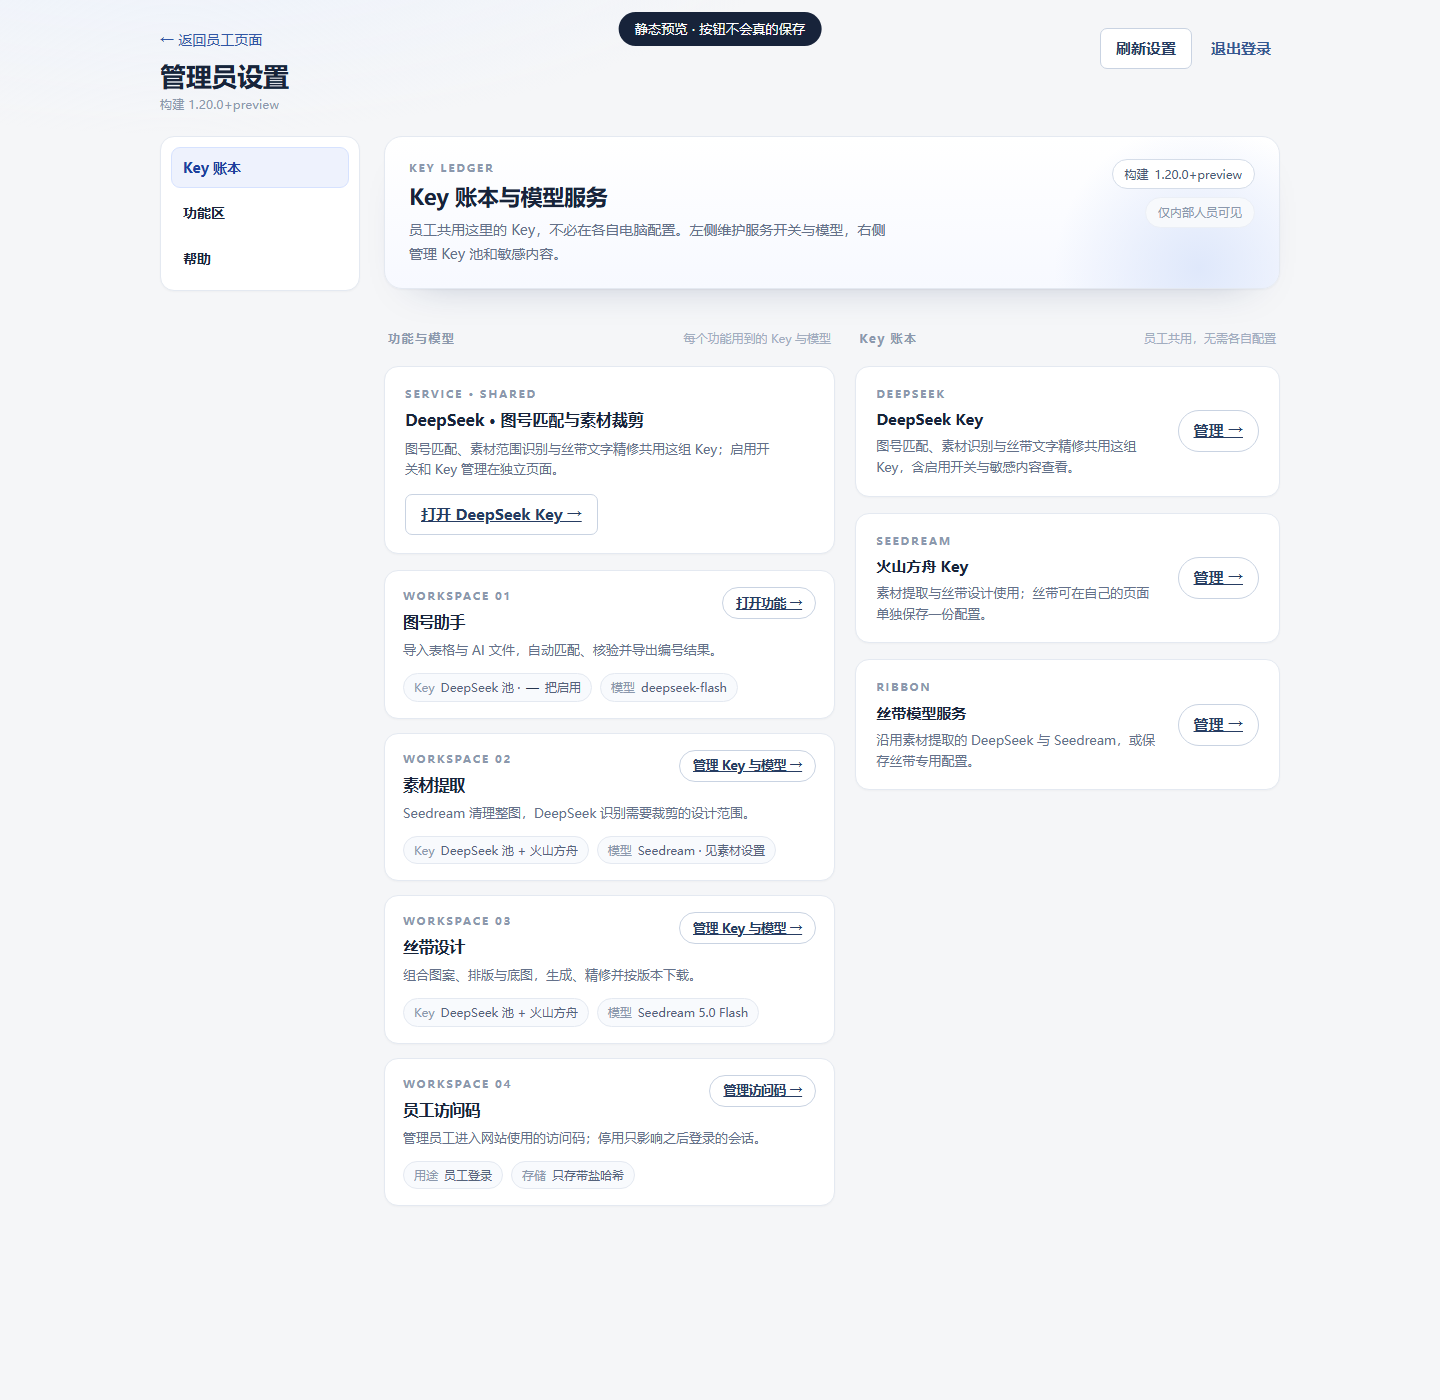
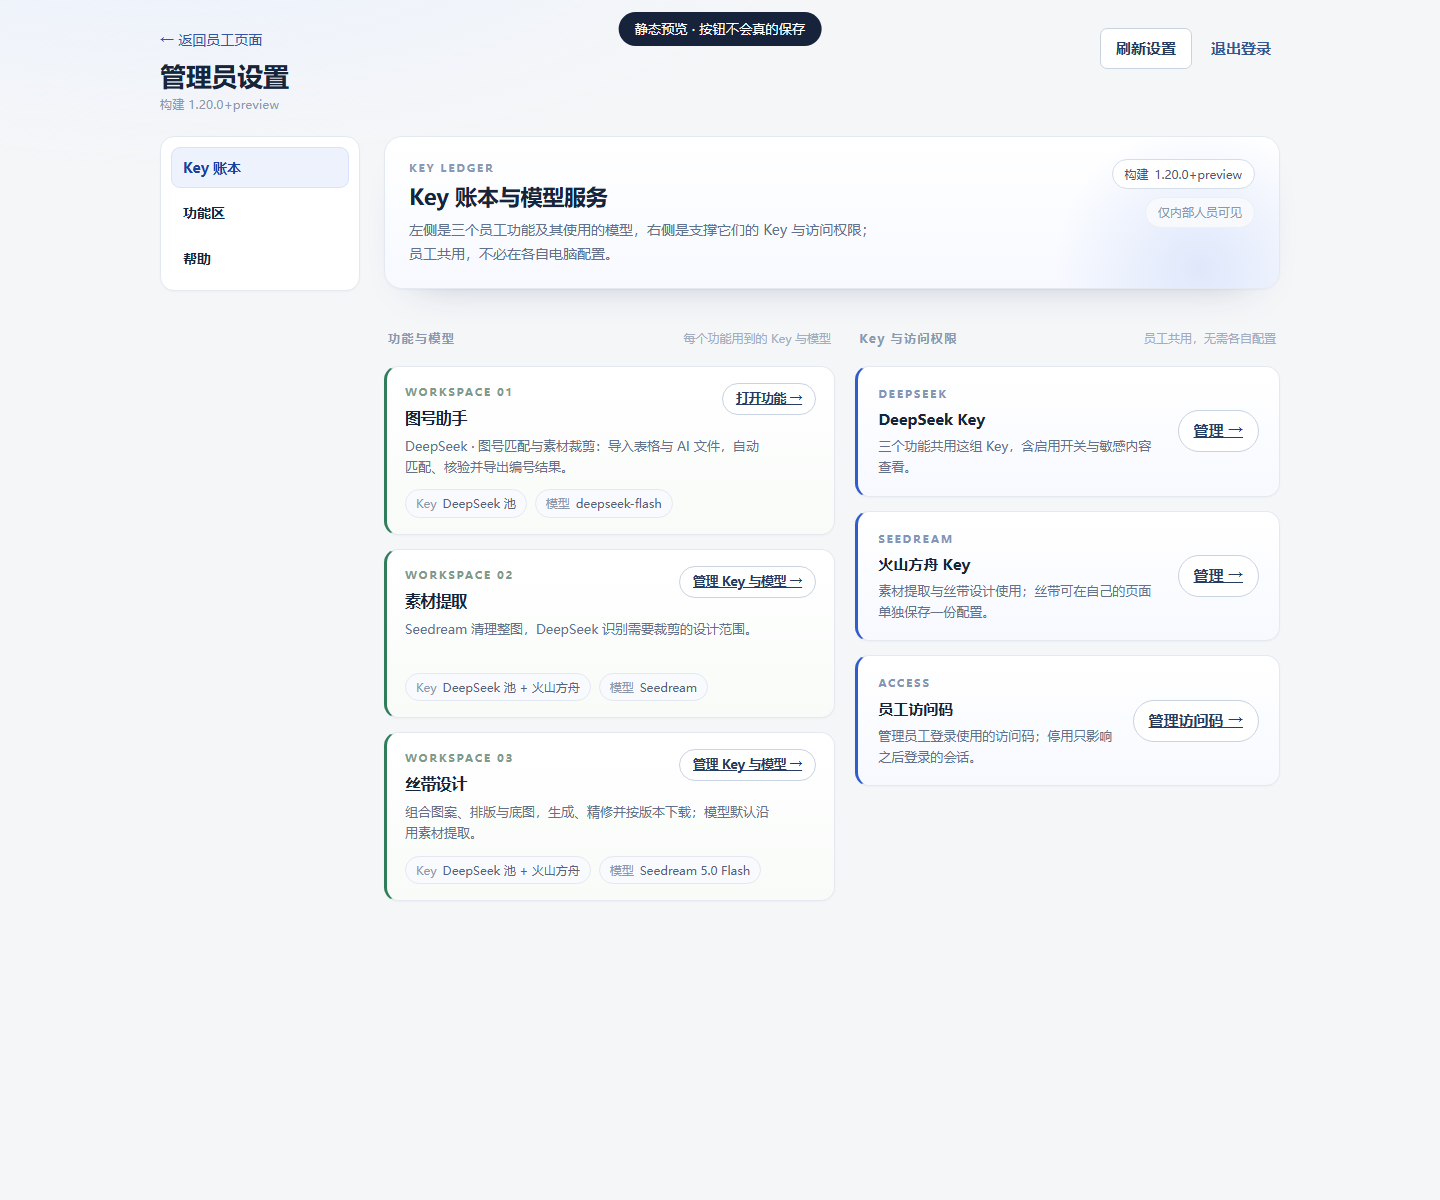
ui(admin): three features on the left, three access cards on the right
Removes the duplicated DeepSeek strip and the duplicate ribbon entry so the page is exactly six cards: 图号助手 / 素材提取 / 丝带设计 on the left and DeepSeek Key / 火山方舟 Key / 员工访问码 on the right. The columns now differ visually (green left border and tint for features, blue for keys and access) and the section labels follow: 功能与模型 / Key 与访问权限.

Feature cards all use the same layout (title, action, description, key/model chips). Tests updated for three feature cards and three entry cards; 92 admin/server tests and the admin UI suite pass; gate ok.

diff --git a/docs/preview/admin-key-ledger.html b/docs/preview/admin-key-ledger.html
@@ -37,7 +37,7 @@
             <div class="hero-copy">
               <p class="eyebrow">KEY LEDGER</p>
               <h2 class="hero-title">Key 账本与模型服务</h2>
-              <p class="hero-desc">员工共用这里的 Key，不必在各自电脑配置。左侧维护服务开关与模型，右侧管理 Key 池和敏感内容。</p>
+              <p class="hero-desc">左侧是三个员工功能及其使用的模型，右侧是支撑它们的 Key 与访问权限；员工共用，不必在各自电脑配置。</p>
             </div>
             <div class="hero-meta">
               <span class="pill">构建 <span id="hero-build">1.20.0+preview</span></span>
@@ -46,104 +46,85 @@
           </section>
 
           <div class="console-grid">
-            <div class="console-col">
+            <div class="console-col console-features">
               <div class="section-label">
                 <h2>功能与模型</h2>
                 <span>每个功能用到的 Key 与模型</span>
               </div>
 
-              <section class="panel service-strip" id="keys" data-service="deepseek">
-                <div class="strip-main">
-                  <p class="eyebrow">SERVICE · SHARED</p>
-                  <h3 id="settings-heading">DeepSeek · 图号匹配与素材裁剪</h3>
-                  <p class="card-desc">图号匹配、素材范围识别与丝带文字精修共用这组 Key；启用开关和 Key 管理在独立页面。</p>
-                </div>
-                <a class="button secondary" href="/admin/deepseek">打开 DeepSeek Key →</a>
-              </section>
-
               <div class="feature-list">
-              <section class="panel feature-card">
-                <div class="feature-top">
-                  <div class="feature-title"><p class="eyebrow">WORKSPACE 01</p><h3>图号助手</h3></div>
-                  <a class="button secondary" href="/">打开功能 →</a>
-                </div>
-                <p class="card-desc">导入表格与 AI 文件，自动匹配、核验并导出编号结果。</p>
-                <ul class="chips">
-                  <li><span>Key</span>DeepSeek 池 · <b data-key-enabled>—</b> 把启用</li>
-                  <li><span>模型</span>deepseek-flash</li>
-                </ul>
-              </section>
+                <section class="panel feature-card">
+                  <div class="feature-top">
+                    <div class="feature-title"><p class="eyebrow">WORKSPACE 01</p><h3>图号助手</h3></div>
+                    <a class="button secondary" href="/">打开功能 →</a>
+                  </div>
+                  <p class="card-desc">DeepSeek · 图号匹配与素材裁剪：导入表格与 AI 文件，自动匹配、核验并导出编号结果。</p>
+                  <ul class="chips">
+                    <li><span>Key</span>DeepSeek 池</li>
+                    <li><span>模型</span>deepseek-flash</li>
+                  </ul>
+                </section>
 
-              <section class="panel feature-card">
-                <div class="feature-top">
-                  <div class="feature-title"><p class="eyebrow">WORKSPACE 02</p><h3 id="material-config-heading">素材提取</h3></div>
-                  <a class="button secondary" href="/admin/material">管理 Key 与模型 →</a>
-                </div>
-                <p class="card-desc">Seedream 清理整图，DeepSeek 识别需要裁剪的设计范围。</p>
-                <ul class="chips">
-                  <li><span>Key</span>DeepSeek 池 + 火山方舟</li>
-                  <li><span>模型</span>Seedream · 见素材设置</li>
-                </ul>
-              </section>
+                <section class="panel feature-card">
+                  <div class="feature-top">
+                    <div class="feature-title"><p class="eyebrow">WORKSPACE 02</p><h3>素材提取</h3></div>
+                    <a class="button secondary" href="/admin/material">管理 Key 与模型 →</a>
+                  </div>
+                  <p class="card-desc">Seedream 清理整图，DeepSeek 识别需要裁剪的设计范围。</p>
+                  <ul class="chips">
+                    <li><span>Key</span>DeepSeek 池 + 火山方舟</li>
+                    <li><span>模型</span>Seedream</li>
+                  </ul>
+                </section>
 
-              <section class="panel feature-card" id="ribbon-card">
-                <div class="feature-top">
-                  <div class="feature-title"><p class="eyebrow">WORKSPACE 03</p><h3>丝带设计</h3></div>
-                  <a class="button secondary" href="/admin/ribbon">管理 Key 与模型 →</a>
-                </div>
-                <p class="card-desc">组合图案、排版与底图，生成、精修并按版本下载。</p>
-                <ul class="chips">
-                  <li><span>Key</span>DeepSeek 池 + 火山方舟</li>
-                  <li><span>模型</span>Seedream 5.0 Flash</li>
-                </ul>
-              </section>
-
-              <section class="panel feature-card">
-                <div class="feature-top">
-                  <div class="feature-title"><p class="eyebrow">WORKSPACE 04</p><h3 id="access-config-heading">员工访问码</h3></div>
-                  <a class="button secondary" href="/admin/access-codes">管理访问码 →</a>
-                </div>
-                <p class="card-desc">管理员工进入网站使用的访问码；停用只影响之后登录的会话。</p>
-                <ul class="chips">
-                  <li><span>用途</span>员工登录</li>
-                  <li><span>存储</span>只存带盐哈希</li>
-                </ul>
-              </section>
+                <section class="panel feature-card">
+                  <div class="feature-top">
+                    <div class="feature-title"><p class="eyebrow">WORKSPACE 03</p><h3>丝带设计</h3></div>
+                    <a class="button secondary" href="/admin/ribbon">管理 Key 与模型 →</a>
+                  </div>
+                  <p class="card-desc">组合图案、排版与底图，生成、精修并按版本下载；模型默认沿用素材提取。</p>
+                  <ul class="chips">
+                    <li><span>Key</span>DeepSeek 池 + 火山方舟</li>
+                    <li><span>模型</span>Seedream 5.0 Flash</li>
+                  </ul>
+                </section>
               </div>
             </div>
 
-            <div class="console-col">
+            <div class="console-col console-keys">
               <div class="section-label">
-                <h2>Key 账本</h2>
+                <h2>Key 与访问权限</h2>
                 <span>员工共用，无需各自配置</span>
               </div>
 
-              <section class="panel entry-card">
-                <div class="entry-main">
-                  <p class="eyebrow">DEEPSEEK</p>
-                  <h3>DeepSeek Key</h3>
-                  <p class="card-desc">图号匹配、素材识别与丝带文字精修共用这组 Key，含启用开关与敏感内容查看。</p>
-                </div>
-                <a class="button secondary" href="/admin/deepseek">管理 →</a>
-              </section>
+              <div class="entry-list">
+                <section class="panel entry-card">
+                  <div class="entry-main">
+                    <p class="eyebrow">DEEPSEEK</p>
+                    <h3>DeepSeek Key</h3>
+                    <p class="card-desc">三个功能共用这组 Key，含启用开关与敏感内容查看。</p>
+                  </div>
+                  <a class="button secondary" href="/admin/deepseek">管理 →</a>
+                </section>
 
-              <section class="panel entry-card">
-                <div class="entry-main">
-                  <p class="eyebrow">SEEDREAM</p>
-                  <h3>火山方舟 Key</h3>
-                  <p class="card-desc">素材提取与丝带设计使用；丝带可在自己的页面单独保存一份配置。</p>
-                </div>
-                <a class="button secondary" href="/admin/material">管理 →</a>
-              </section>
+                <section class="panel entry-card">
+                  <div class="entry-main">
+                    <p class="eyebrow">SEEDREAM</p>
+                    <h3>火山方舟 Key</h3>
+                    <p class="card-desc">素材提取与丝带设计使用；丝带可在自己的页面单独保存一份配置。</p>
+                  </div>
+                  <a class="button secondary" href="/admin/material">管理 →</a>
+                </section>
 
-              <section class="panel entry-card">
-                <div class="entry-main">
-                  <p class="eyebrow">RIBBON</p>
-                  <h3>丝带模型服务</h3>
-                  <p class="card-desc">沿用素材提取的 DeepSeek 与 Seedream，或保存丝带专用配置。</p>
-                </div>
-                <a class="button secondary" href="/admin/ribbon">管理 →</a>
-              </section>
+                <section class="panel entry-card">
+                  <div class="entry-main">
+                    <p class="eyebrow">ACCESS</p>
+                    <h3 id="access-config-heading">员工访问码</h3>
+                    <p class="card-desc">管理员工登录使用的访问码；停用只影响之后登录的会话。</p>
+                  </div>
+                  <a class="button secondary" href="/admin/access-codes">管理访问码 →</a>
+                </section>
+              </div>
             </div>
           </div>
         </div>

diff --git a/hsd_tool/static/admin.html b/hsd_tool/static/admin.html
@@ -40,7 +40,7 @@
             <div class="hero-copy">
               <p class="eyebrow">KEY LEDGER</p>
               <h2 class="hero-title">Key 账本与模型服务</h2>
-              <p class="hero-desc">员工共用这里的 Key，不必在各自电脑配置。左侧维护服务开关与模型，右侧管理 Key 池和敏感内容。</p>
+              <p class="hero-desc">左侧是三个员工功能及其使用的模型，右侧是支撑它们的 Key 与访问权限；员工共用，不必在各自电脑配置。</p>
             </div>
             <div class="hero-meta">
               <span class="pill">构建 <span id="hero-build">__HSD_BUILD__</span></span>
@@ -49,104 +49,85 @@
           </section>
 
           <div class="console-grid">
-            <div class="console-col">
+            <div class="console-col console-features">
               <div class="section-label">
                 <h2>功能与模型</h2>
                 <span>每个功能用到的 Key 与模型</span>
               </div>
 
-              <section class="panel service-strip" id="keys" data-service="deepseek">
-                <div class="strip-main">
-                  <p class="eyebrow">SERVICE · SHARED</p>
-                  <h3 id="settings-heading">DeepSeek · 图号匹配与素材裁剪</h3>
-                  <p class="card-desc">图号匹配、素材范围识别与丝带文字精修共用这组 Key；启用开关和 Key 管理在独立页面。</p>
-                </div>
-                <a class="button secondary" href="/admin/deepseek">打开 DeepSeek Key →</a>
-              </section>
-
               <div class="feature-list">
-              <section class="panel feature-card">
-                <div class="feature-top">
-                  <div class="feature-title"><p class="eyebrow">WORKSPACE 01</p><h3>图号助手</h3></div>
-                  <a class="button secondary" href="/">打开功能 →</a>
-                </div>
-                <p class="card-desc">导入表格与 AI 文件，自动匹配、核验并导出编号结果。</p>
-                <ul class="chips">
-                  <li><span>Key</span>DeepSeek 池 · <b data-key-enabled>—</b> 把启用</li>
-                  <li><span>模型</span>deepseek-flash</li>
-                </ul>
-              </section>
+                <section class="panel feature-card">
+                  <div class="feature-top">
+                    <div class="feature-title"><p class="eyebrow">WORKSPACE 01</p><h3>图号助手</h3></div>
+                    <a class="button secondary" href="/">打开功能 →</a>
+                  </div>
+                  <p class="card-desc">DeepSeek · 图号匹配与素材裁剪：导入表格与 AI 文件，自动匹配、核验并导出编号结果。</p>
+                  <ul class="chips">
+                    <li><span>Key</span>DeepSeek 池</li>
+                    <li><span>模型</span>deepseek-flash</li>
+                  </ul>
+                </section>
 
-              <section class="panel feature-card">
-                <div class="feature-top">
-                  <div class="feature-title"><p class="eyebrow">WORKSPACE 02</p><h3 id="material-config-heading">素材提取</h3></div>
-                  <a class="button secondary" href="/admin/material">管理 Key 与模型 →</a>
-                </div>
-                <p class="card-desc">Seedream 清理整图，DeepSeek 识别需要裁剪的设计范围。</p>
-                <ul class="chips">
-                  <li><span>Key</span>DeepSeek 池 + 火山方舟</li>
-                  <li><span>模型</span>Seedream · 见素材设置</li>
-                </ul>
-              </section>
+                <section class="panel feature-card">
+                  <div class="feature-top">
+                    <div class="feature-title"><p class="eyebrow">WORKSPACE 02</p><h3>素材提取</h3></div>
+                    <a class="button secondary" href="/admin/material">管理 Key 与模型 →</a>
+                  </div>
+                  <p class="card-desc">Seedream 清理整图，DeepSeek 识别需要裁剪的设计范围。</p>
+                  <ul class="chips">
+                    <li><span>Key</span>DeepSeek 池 + 火山方舟</li>
+                    <li><span>模型</span>Seedream</li>
+                  </ul>
+                </section>
 
-              <section class="panel feature-card" id="ribbon-card">
-                <div class="feature-top">
-                  <div class="feature-title"><p class="eyebrow">WORKSPACE 03</p><h3>丝带设计</h3></div>
-                  <a class="button secondary" href="/admin/ribbon">管理 Key 与模型 →</a>
-                </div>
-                <p class="card-desc">组合图案、排版与底图，生成、精修并按版本下载。</p>
-                <ul class="chips">
-                  <li><span>Key</span>DeepSeek 池 + 火山方舟</li>
-                  <li><span>模型</span>Seedream 5.0 Flash</li>
-                </ul>
-              </section>
-
-              <section class="panel feature-card">
-                <div class="feature-top">
-                  <div class="feature-title"><p class="eyebrow">WORKSPACE 04</p><h3 id="access-config-heading">员工访问码</h3></div>
-                  <a class="button secondary" href="/admin/access-codes">管理访问码 →</a>
-                </div>
-                <p class="card-desc">管理员工进入网站使用的访问码；停用只影响之后登录的会话。</p>
-                <ul class="chips">
-                  <li><span>用途</span>员工登录</li>
-                  <li><span>存储</span>只存带盐哈希</li>
-                </ul>
-              </section>
+                <section class="panel feature-card">
+                  <div class="feature-top">
+                    <div class="feature-title"><p class="eyebrow">WORKSPACE 03</p><h3>丝带设计</h3></div>
+                    <a class="button secondary" href="/admin/ribbon">管理 Key 与模型 →</a>
+                  </div>
+                  <p class="card-desc">组合图案、排版与底图，生成、精修并按版本下载；模型默认沿用素材提取。</p>
+                  <ul class="chips">
+                    <li><span>Key</span>DeepSeek 池 + 火山方舟</li>
+                    <li><span>模型</span>Seedream 5.0 Flash</li>
+                  </ul>
+                </section>
               </div>
             </div>
 
-            <div class="console-col">
+            <div class="console-col console-keys">
               <div class="section-label">
-                <h2>Key 账本</h2>
+                <h2>Key 与访问权限</h2>
                 <span>员工共用，无需各自配置</span>
               </div>
 
-              <section class="panel entry-card">
-                <div class="entry-main">
-                  <p class="eyebrow">DEEPSEEK</p>
-                  <h3>DeepSeek Key</h3>
-                  <p class="card-desc">图号匹配、素材识别与丝带文字精修共用这组 Key，含启用开关与敏感内容查看。</p>
-                </div>
-                <a class="button secondary" href="/admin/deepseek">管理 →</a>
-              </section>
+              <div class="entry-list">
+                <section class="panel entry-card">
+                  <div class="entry-main">
+                    <p class="eyebrow">DEEPSEEK</p>
+                    <h3>DeepSeek Key</h3>
+                    <p class="card-desc">三个功能共用这组 Key，含启用开关与敏感内容查看。</p>
+                  </div>
+                  <a class="button secondary" href="/admin/deepseek">管理 →</a>
+                </section>
 
-              <section class="panel entry-card">
-                <div class="entry-main">
-                  <p class="eyebrow">SEEDREAM</p>
-                  <h3>火山方舟 Key</h3>
-                  <p class="card-desc">素材提取与丝带设计使用；丝带可在自己的页面单独保存一份配置。</p>
-                </div>
-                <a class="button secondary" href="/admin/material">管理 →</a>
-              </section>
+                <section class="panel entry-card">
+                  <div class="entry-main">
+                    <p class="eyebrow">SEEDREAM</p>
+                    <h3>火山方舟 Key</h3>
+                    <p class="card-desc">素材提取与丝带设计使用；丝带可在自己的页面单独保存一份配置。</p>
+                  </div>
+                  <a class="button secondary" href="/admin/material">管理 →</a>
+                </section>
 
-              <section class="panel entry-card">
-                <div class="entry-main">
-                  <p class="eyebrow">RIBBON</p>
-                  <h3>丝带模型服务</h3>
-                  <p class="card-desc">沿用素材提取的 DeepSeek 与 Seedream，或保存丝带专用配置。</p>
-                </div>
-                <a class="button secondary" href="/admin/ribbon">管理 →</a>
-              </section>
+                <section class="panel entry-card">
+                  <div class="entry-main">
+                    <p class="eyebrow">ACCESS</p>
+                    <h3 id="access-config-heading">员工访问码</h3>
+                    <p class="card-desc">管理员工登录使用的访问码；停用只影响之后登录的会话。</p>
+                  </div>
+                  <a class="button secondary" href="/admin/access-codes">管理访问码 →</a>
+                </section>
+              </div>
             </div>
           </div>
         </div>

diff --git a/tests/test_admin_ui.js b/tests/test_admin_ui.js
@@ -218,8 +218,9 @@ async function main(){
   retry.resolve({status:200,body:{ok:true}});await retrying;fetchHandler=null;assert.equal(sandbox.window.location.replacements.at(-1),'/admin/login');
 
   const html=fs.readFileSync(path.join(__dirname,'../hsd_tool/static/admin.html'),'utf8'),css=fs.readFileSync(path.join(__dirname,'../hsd_tool/static/admin.css'),'utf8');
-  assert.ok(html.includes('window.HSD_TOKEN = __HSD_TOKEN__'));assert.ok(html.includes('href="/"'));assert.equal((html.match(/class="panel feature-card"/g)||[]).length,4,'one card per admin-managed feature');
-  assert.ok(html.includes('service-strip')&&html.includes('class="console-grid"'),'two-part console layout');
+  assert.ok(html.includes('window.HSD_TOKEN = __HSD_TOKEN__'));assert.ok(html.includes('href="/"'));assert.equal((html.match(/class="panel feature-card"/g)||[]).length,3,'three feature cards');
+  assert.equal((html.match(/class="panel entry-card"/g)||[]).length,3,'three key and access entry cards');
+  assert.ok(html.includes('class="console-grid"')&&html.includes('console-features')&&html.includes('console-keys'),'two-part console layout');
   const deepseek=fs.readFileSync(path.join(__dirname,'../hsd_tool/static/deepseek-keys.html'),'utf8');
   assert.ok(deepseek.includes('id="key-list"')&&deepseek.includes('id="key-add-form"')&&deepseek.includes('id="key-count"'),'key pool hooks live on the DeepSeek page');
   const ribbonPage=fs.readFileSync(path.join(__dirname,'../hsd_tool/static/ribbon-settings.html'),'utf8');

diff --git a/hsd_tool/static/admin-console.css b/hsd_tool/static/admin-console.css
@@ -788,3 +788,24 @@ body {
   padding: 7px 18px;
   font-size: 13px;
 }
+
+/* Two columns with a deliberate visual difference ------------------------- */
+.console-features .feature-card {
+  border-left: 3px solid #2f7d5b;
+  background: linear-gradient(180deg, #ffffff 0%, #f8fbf8 100%);
+}
+.console-features .feature-card .eyebrow {
+  color: #7f9a8c;
+}
+.console-keys .entry-card {
+  border-left: 3px solid var(--accent);
+  background: linear-gradient(180deg, #ffffff 0%, #f7f9ff 100%);
+}
+.console-keys .entry-card .eyebrow {
+  color: #8394b4;
+}
+.entry-list {
+  display: grid;
+  gap: 14px;
+  grid-auto-rows: 1fr;
+}
